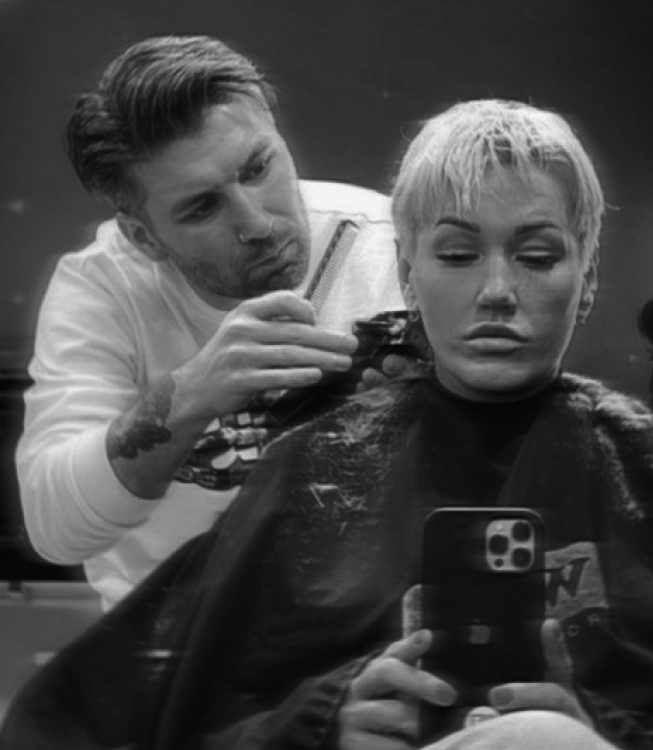
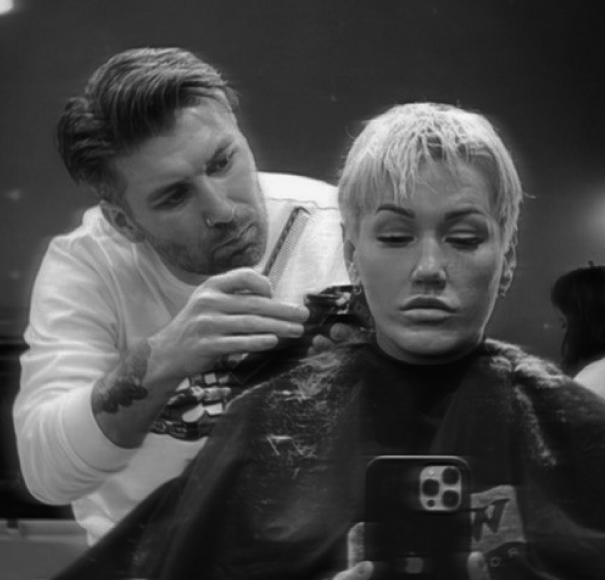
решена проблема с my-job и выравнены отступы и gap main

diff --git a/css/main.css b/css/main.css
@@ -5,8 +5,8 @@
 * {
   margin: 0;
   padding: 0;
-  /* box-sizing: border-box; */
-  box-sizing: none;
+  box-sizing: border-box;
+  /* box-sizing: none; */
 }
 
 /* .poppins-medium {
@@ -292,6 +292,8 @@ html, body {
   font-size: clamp(0.75rem, 0.539rem + 1.05vw, 1rem);
 }
 
+/* Price */
+
 .price-box {
   padding: 55px 0 22px;
   background-color: var(--dark-bg);
@@ -368,7 +370,7 @@ html, body {
 .container-info {
   display: flex;
   flex-wrap: wrap;
-  gap: 130px;
+  gap: 30px;
   justify-content: center;
   align-items: center;
   padding: 50px 0 50px;
@@ -378,20 +380,25 @@ html, body {
   font-weight: bold;
   letter-spacing: -0.5;
   text-align: center;
-  /* line-height: 50px; */
-  line-height: clamp(1.25rem, 0.118rem + 5.66vw, 3.125rem);
+  /* line-height: 48.34px; */
+  /* line-height: clamp(1.25rem, 0.118rem + 5.66vw, 3.125rem); */
+  line-height: clamp(1.25rem, -0.242rem + 7.46vw, 3.021rem);
   margin: 0px 20px;
 
 }
 
-/* .photo {
-  max-width: 525.5px;
-} */
+
+.info__text {
+  /* width: fit-content; */
+ padding: 0px 50.5px;
+ border: 2px dotted var(--white);
+  border-radius: 20px;
+}
 
  .my-job{
   border: 2px dotted var(--white);
   border-radius: 20px;
-  max-width: 80%;
+
 }
 
 .contacts {

diff --git a/index.html b/index.html
@@ -80,8 +80,9 @@
 
     <main class="container-info">
         <div class="photo">
-            <img src="./jpg/my-job.jpg" alt="my-job" class="my-job">  
+            <img src="./jpg/my-job.jpg" alt="my-job" class="my-job"> 
         </div>
+        
         <div class="info__text">
             <p>
                 Привет ! Тебя интересует парикмахер в Сочи ?<br> 
